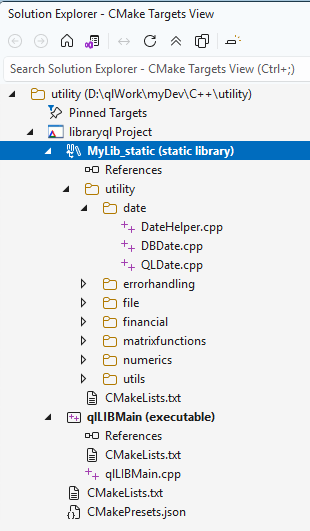
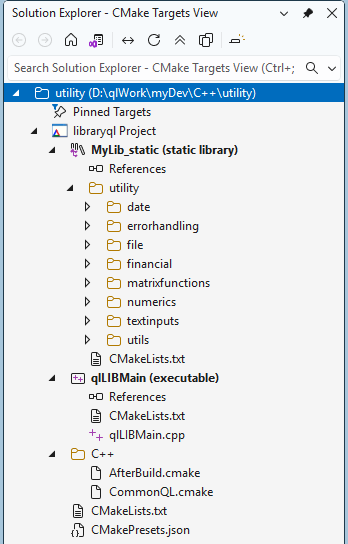
Add files via upload

diff --git a/README.md b/README.md
@@ -1,16 +1,16 @@
 # CMake with Visual Studio 2026: Working Samples and Guide
-    All you need to Compile static-lib and exe-App under one project
+    Compile static-lib and exe-App under one project
 
 In Visual Studio 2026, **Property Sheet** (a .props file), which was an important and useful feature of earlier Visual Studios, is not needed for CMake Project, which does not depend on .sln or .vcxproj files and is cross platform.
 
-CMake Project utilizes **CMakeLists.txt** and CMakePresets.json files for C++ compiling setings. You can download them here, edit and use for your own purpose.
+CMake Project utilizes **CMakeLists.txt** and CMakePresets.json files for C++ compiling setings. You can download them, edit and use for your own purpose.
 
 ### Dir structure
 My C++ codes are under dir(C++):
 
 ![dir(C++)](images/C++dir.png)
 
-I put common definitions in [CMakeCommon.md](#Notes).
+I put common definitions in [CommonQL.cmake & AfterBuild.cmake](#Notes).
 
 My CMake Project **utility** under dir(C++) is:
 
@@ -18,11 +18,11 @@ My CMake Project **utility** under dir(C++) is:
 
 You need both **CMakeLists.txt** and **CMakePresets.json**.
 
-My test sub-project **unitTest** (and static-lib sub-project **libutility**) under dir(utility) is shown below:
+My test sub-project **unitTest** (and static-lib sub-project **zutility**) under dir(utility) is shown below:
 
 ![folder(unitTest)](images/unitTestDir.png)
 
-You need the **CMakeLists.txt** under both unitTest and libutility.
+You need the **CMakeLists.txt** under both unitTest and zutility.
 
 ### Compile static library & executable
 1. Start VS2026 and choose "Open a folder." In my case, I choose **utility**, and see **Folder View** on the right:
@@ -38,8 +38,8 @@ You need the **CMakeLists.txt** under both unitTest and libutility.
 4. Right-click **qlLIBMain (executable)** and choose "Build qlLIBMain" to compile the EXE.
 
 ### Notes
-This repository contains some of the sub-dirs of my **utility**.
 
-Dir(C++) in this repository contains two help files:
-- CMakeCommon.md<a name="Notes"></a>
-- get-cpp-fnames.ps1: used to obtain the .cpp list in **libutility/CMakeLists.txt**
+Dir(C++) here contains three files:
+- CommonQL.cmake
+- AfterBuild.cmake<a name="Notes"></a>
+- get-cpp-fnames.ps1: used to obtain the .cpp list in **zutility/CMakeLists.txt**
